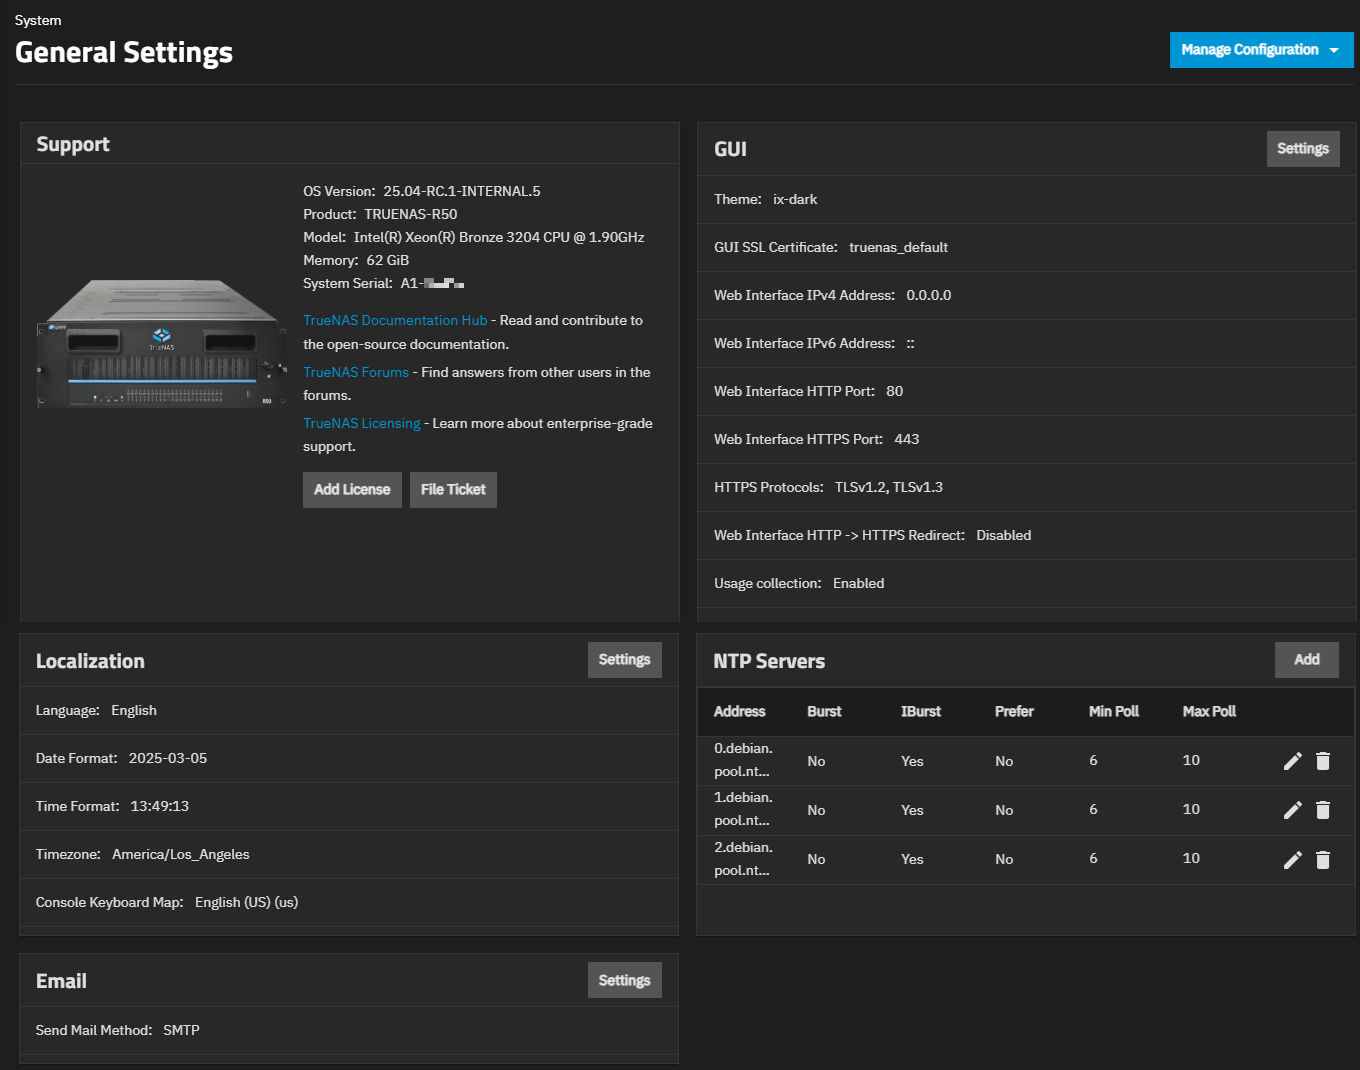
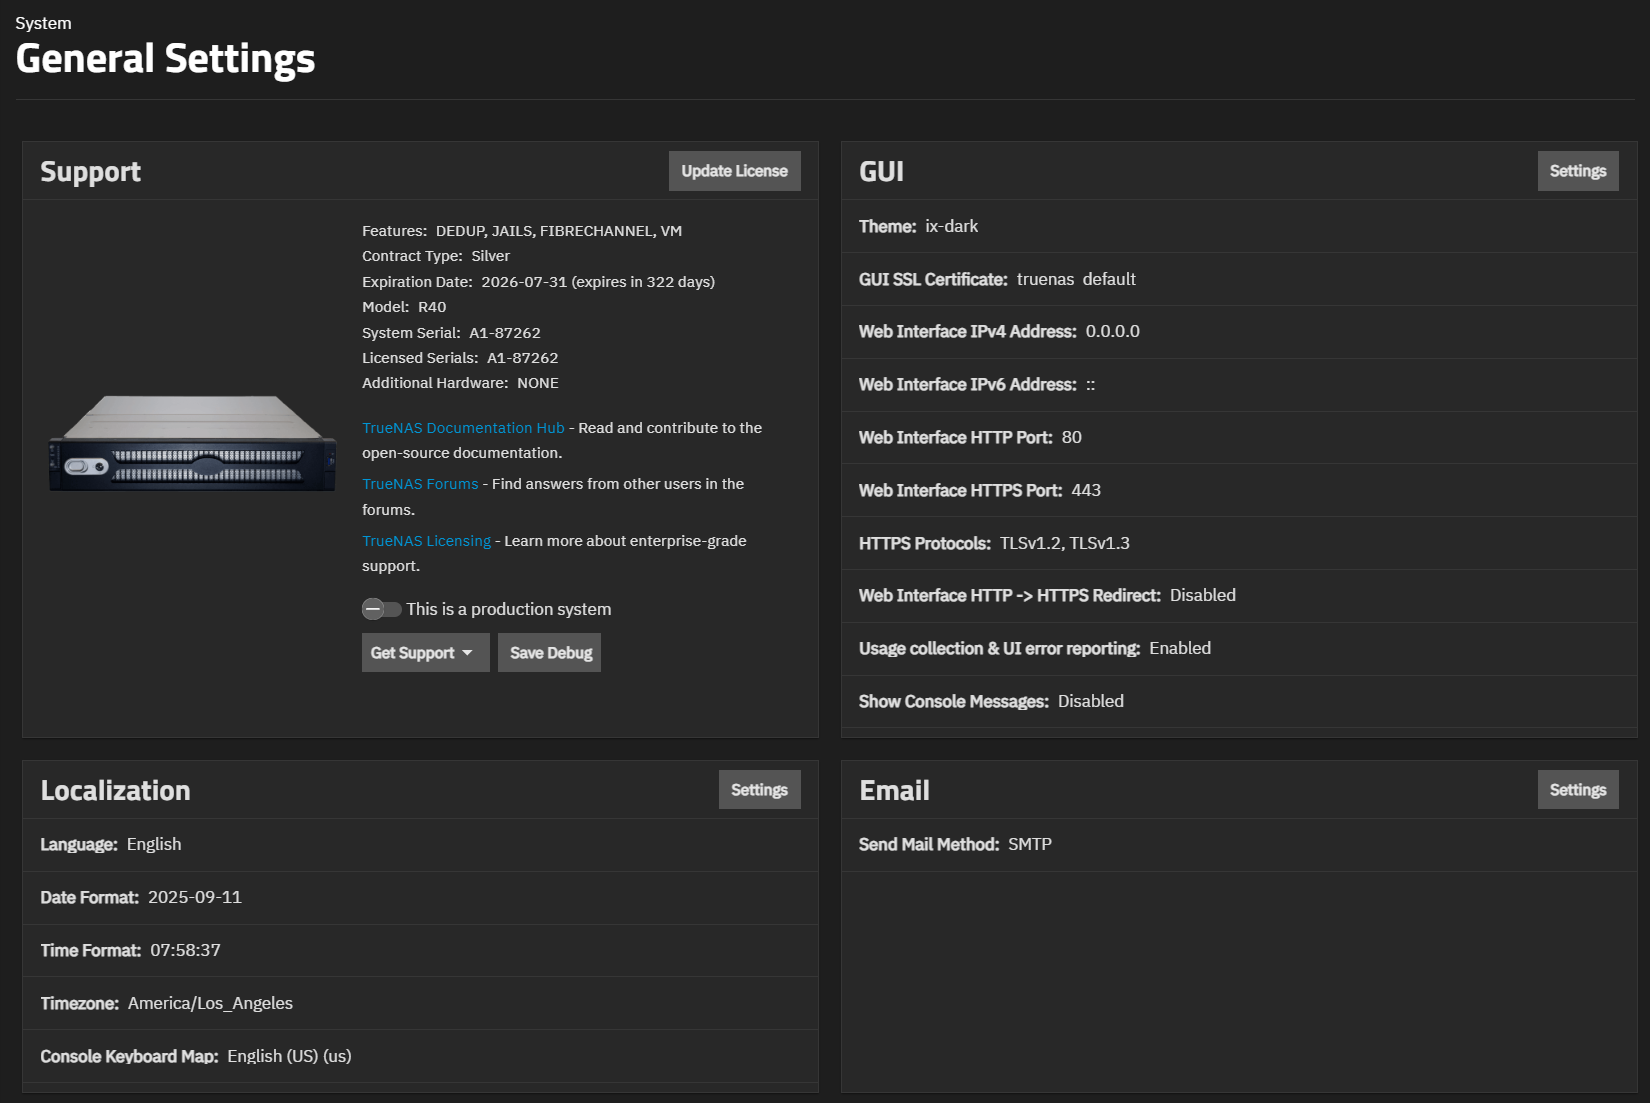
PD-2457 Update General Settings UI Ref and Contributing JiraIssueReporing.md Articless
This commit updates the System/GeneralSettingsScreens.md and /Contributing/JiralIssueReporting.md articles to reflect the current 25.10 UI changes.
The two snippets: CreateDebugCORE.md and CreateDebugSCALE.,md are also updated.

Updated and compressed screenshots added to the System/GeneralSettings/_index.md tutorial and Sytem/GeneralSettingsScreens.md  articles.

diff --git a/content/SCALE/SCALEUIReference/SystemSettings/GeneralSettingsScreens.md b/content/SCALE/SCALEUIReference/SystemSettings/GeneralSettingsScreens.md
@@ -23,22 +23,35 @@ The **General Settings** screen has four widgets that show current general syste
 
 {{< trueimage src="/images/SCALE/SystemSettings/SystemGeneralScreen.png" alt="General Settings Screen" id="General Settings Screen" >}}
 
-## Support Widget
+Community systems show the same widgets, but are not eligible for Enterprise support options or licenses.
+The TrueNAS logo shows for the Community Edition of TrueNAS.
 
-The **Support** widget shows general hardware and software specifications and links to the [Documentation Hub](https://www.truenas.com/docs/), [TrueNAS Forums](https://forums.truenas.com/), and offers [TrueNAS Licensing](https://www.ixsystems.com/support/) information.
+## Support Widgets
+
+The **Support** widget for Community Edition TrueNAS shows the version, model number of the CPU detected, system memory detected, a system serial number if configured, and links to the [Documentation Hub](https://www.truenas.com/docs/), [TrueNAS Forums](https://forums.truenas.com/), and offers [TrueNAS Licensing](https://www.ixsystems.com/support/) information.
 
 {{< trueimage src="/images/SCALE/SystemSettings/SystemGeneralSupportWidget.png" alt="Support Widget" id="Support Widget" >}}
 
-Community systems show the same widgets, but are not eligible for Enterprise support options or licenses.
+The Community Edition Support widget shows a TrueNAS icon instead of a system image available for TrueNAS Mini and other platforms sold by TrueNAS.
+Images of non-standard systems are not supported due to the number of different options available in the marketplace.
+
+**File Ticket** opens a [feedback/report issue window](#send-feedback-window) where users can provide feedback on the screen or report an issue and save/attach a system debug file.
+
+**Save Debug** starts downloading a system debug file to the local machine.
+
+{{< enterprise>}}
+The **Support** widget on the **General Settings** screen for Enterprise customers shows system licenses applied to the system, the system model, serial, license numbers not shown for Community Edition of TrueNAS, and any additional hardware associated with the system.
+
+{{< trueimage src="/images/SCALE/SystemSettings/SystemGeneralSupportWidgetEnterprise.png" alt="Support Widget - Enterprise" id="Support Widget - Enterprise" >}}
 
 The **This is a production system** toggle, which shows only on TrueNAS Enterprise systems, opens the [**Update Production Status**](#update-production-status-dialog) dialog.
 
-**Add License** opens the **[License](#license-screen)** screen. After adding a license, **Update License** replaces the **Add License** button.
+**Add License** opens the **[License](#license-screen)** screen.
+After adding a license, **Update License** replaces the **Add License** button.
 
 **Get Support** dropdown shows two options: **File Ticket** and **Proactive Support** when the system is an Enterprise-licensed system.
 Non-Enterprise licensed systems only show the [**File Ticket**](#) option.
-
-**Save Debug** starts downloading a system debug file to the local machine.
+{{< /enterprise >}}
 
 ### Update Production Status Dialog
 

diff --git a/static/includes/CreateDebugSCALE.md b/static/includes/CreateDebugSCALE.md
@@ -1,9 +1,10 @@
 &NewLine;
 
-On TrueNAS systems, go to **System > Advanced Settings**, then click **Save Debug** and wait for the file to download to your local system. 
+On TrueNAS systems, go to **System > General Settings**, then click **Save Debug** and wait for the file to download to your local system.
 Generating the debug file might take a few minutes to complete. After that, it downloads to your system.
+If your browser download shows a dialog asking for confirmation, click **Keep** to continue the download process.
 
-To generate a debug from the TrueNAS CLI, enter <command>system debug > <i>debugname</i>.tgz</command>, replacing <i>debugname</i> with your chosen filename.
+To generate a debug from the TrueNAS CLI, enter <command>system debug > <i>debugname</i>.tgz</command>, replacing <i>debugname</i> with your chosen file name.
 You must use SFTP or a similar method to connect to TrueNAS and download the file from the /home/<i>username</i> location, replacing <i>username</i> with the account name that generated the debug.
 SFTP Example:
 ```

diff --git a/static/includes/CreateDebugCORE.md b/static/includes/CreateDebugCORE.md
@@ -1,6 +1,6 @@
 &NewLine;
 
-The TrueNAS web interface lets users save debugging information to a text file.
+The TrueNAS CORE web interface lets users save debugging information to a text file.
 
 On TrueNAS 13 systems, go to **System > Advanced** and click **SAVE DEBUG**.
 
